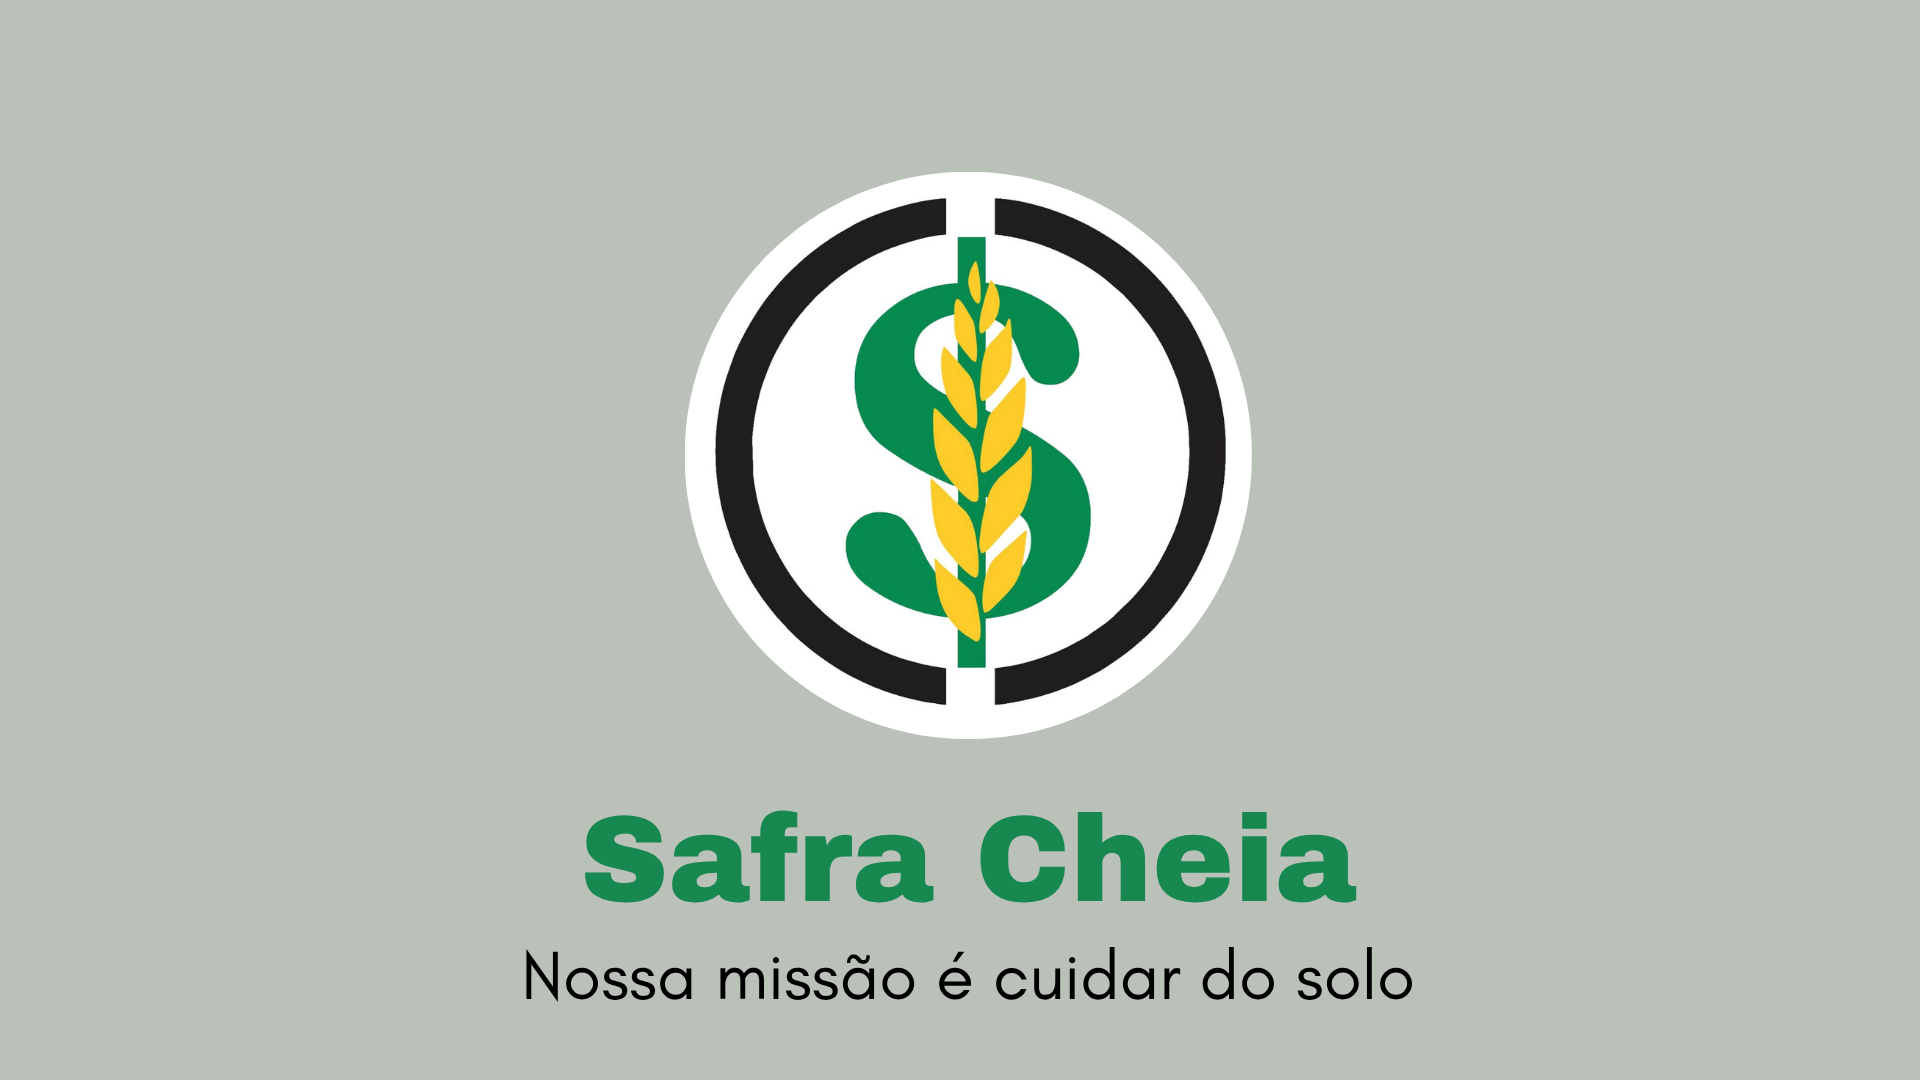
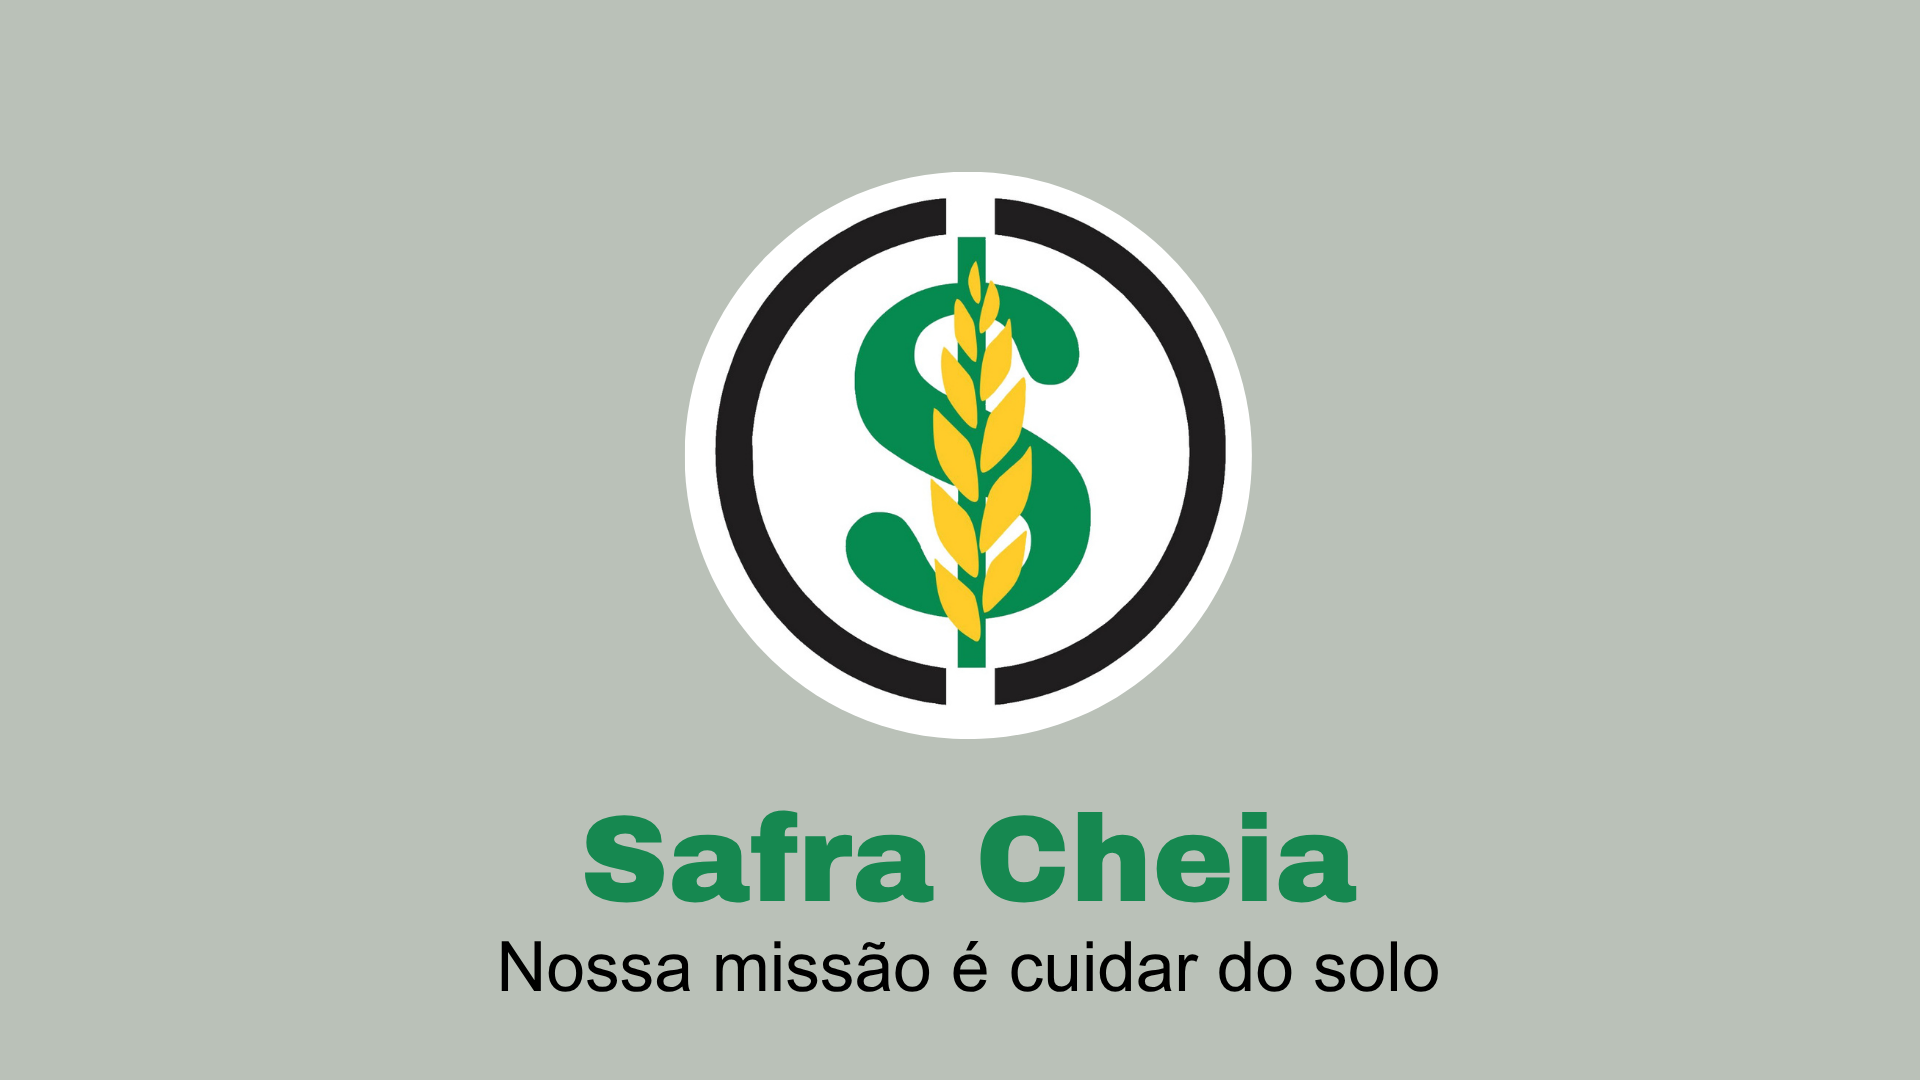
melhora no site

Changed region(s): [[0.25, 0.8556, 0.75, 0.9472]]

diff --git a/Site/style.css b/Site/style.css
@@ -69,20 +69,29 @@ body {
 }
 
 .titulo h3 {
-    color: #0a9e2f;
+    color: #168850;
+    font-family: 'Archivo Black', sans-serif;
 }
 
 .Mini-Sobre {
     display: flex;
     margin-top: 10px;
     margin-bottom: 50px;
+    gap: 20px;
 }
 
-.Mini-Sobre .left {
+.Mini-Sobre .left img {
     flex: 1 1 50%;
     display: flex;
     margin-top: 20px;
     margin-bottom: 20px;
+    width: 100%;
+
+    h3{
+        color: #168850;
+        font-family: 'Archivo Black', sans-serif;
+
+    }
 
     img {
         width: 20%;
@@ -93,11 +102,13 @@ body {
 .Mini-Sobre .right {
     flex: 1 1 50%;
     display: flex;
+    flex-direction: column;
     margin-top: 20px;
     margin-bottom: 20px;
 
     h5{
-        text-align: right;
+        text-align: left;
+        
     }
 }
 
@@ -106,5 +117,36 @@ body {
 }
 
 .logo-footer{
-    width: 10px;
+    width: 80px;
+    margin-left: 20px;
+}
+
+footer{
+    background-color: #FFFFFF;
+    margin-top: 40px;
+}
+
+.nav-link[href="Contato"]{
+    color: #168850;
+}
+
+.nav-link[href="Contato"]:hover{
+    color: #f6e900;
+}
+
+.navbar-brand{
+    color: #168850;
+    font-family: "Archivo Black", sans-serif;
+}
+
+.navbar-brand:hover{
+    color: #168850;
+}
+
+.nav-link{
+    font-family: "Archivo Black", sans-serif;
+}
+
+.produtos .row{
+    padding-right: 0;
 }

diff --git a/Site/paginas/home.php b/Site/paginas/home.php
@@ -1,14 +1,21 @@
+<div class="banner">
+
+<img src="imagens/Safra-Cheia.png">
+</div>
+
 <section class="titulo">
-        <h3>Nossa Empresa</h3>
         <section class="Mini-Sobre">
             <div class="left">
                 <img src="./imagens/fotoTeste.jpg">
             </div>
             <div class="right">
+              <div>
+              <h3>Nossa Empresa</h3><br>
+              </div>
                 <h5>
-                   <p>Somos uma empresa especializada no cuidado e manejo do solo para agricultores
+                   Somos uma empresa especializada no cuidado e manejo do solo para agricultores
                      Oferecemos soluções sustentáveis que aumentam a produtividade e preservam o meio ambiente.
-                      Com tecnologia e conhecimento técnico, ajudamos o campo a crescer com saúde e eficiência.</p> 
+                      Com tecnologia e conhecimento técnico, ajudamos o campo a crescer com saúde e eficiência.
                     
                 </h5>
             </div>
@@ -36,7 +43,7 @@
               </div>
             </div>
             <div class="col md-4">
-              <div class="card h-100">
+              <div class="card h-33">
                 <img src="./imagens/faixada.jpg" class="card-img-top" alt="...">
                 <div class="card-body">
                   <h5 class="card-title">Produto3</h5>

diff --git a/Site/index.php b/Site/index.php
@@ -8,6 +8,11 @@
   <link href="https://cdn.jsdelivr.net/npm/bootstrap@5.3.6/dist/css/bootstrap.min.css" rel="stylesheet"
     integrity="sha384-4Q6Gf2aSP4eDXB8Miphtr37CMZZQ5oXLH2yaXMJ2w8e2ZtHTl7GptT4jmndRuHDT" crossorigin="anonymous">
   <link rel="stylesheet" href="style.css">
+
+  <link rel="preconnect" href="https://fonts.googleapis.com">
+<link rel="preconnect" href="https://fonts.gstatic.com" crossorigin>
+<link href="https://fonts.googleapis.com/css2?family=Archivo+Black&display=swap" rel="stylesheet">
+
 </head>
 
 
@@ -43,11 +48,6 @@
       </nav>
   </header>
 
-  <div class="banner">
-
-    <img src="imagens/Safra-Cheia.png">
-  </div>
-
   <main>
 
     <?php
@@ -67,7 +67,7 @@
     ?>
   </main>
 
-  <footer class="d-flex flex-wrap justify-content-between align-items-center py-3 my-4 border-top">
+  <footer class="d-flex flex-wrap justify-content-between align-items-center py-3 border-top">
     <div class="col-md-4 d-flex align-items-center">
       <a class="mb-3 me-2 mb-md-0 text-body-secondary text-decoration-none lh-1" aria-label="Bootstrap">
         <img class="logo-footer" src="imagens/LogoSemFundo.png">

diff --git a/Site/paginas/404.php b/Site/paginas/404.php
@@ -1,2 +1,2 @@
 <h1>erro 404.</h1>
-<img src="./imagens/404.jpg">
+<img class="w-100" src="./imagens/404.jpg">
